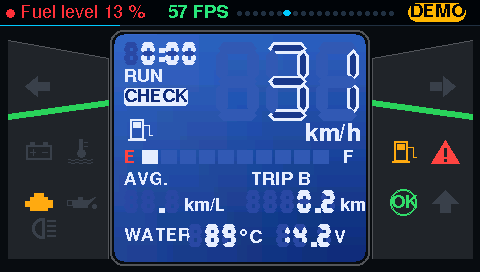
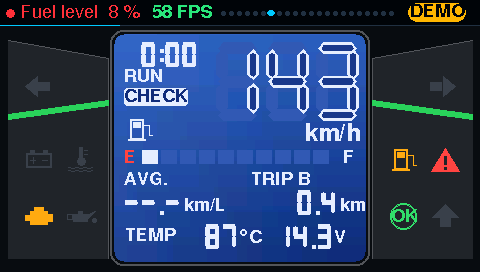
Polish SCOOTER and BLUE LCD pages after reviewing screenshots
Small 7-segment digits were unreadable (a "1" looked like ":"): thin strokes now
get blunt ends, a taller cell and a smaller gap, and ghost segments are drawn
before lit ones so they never cover them. BLUE LCD drops ghosts on small digits
(the real panel has none), renames WATER to TEMP so it clears its digits, drops
the lone headlight icon and spreads the pod lamps. Missing values show dashes.
Removed a stray orange stub on SCOOTER. Doc screenshots refreshed.

diff --git a/OBD_Dashboard/moto.h b/OBD_Dashboard/moto.h
@@ -74,30 +74,34 @@ struct Seg {
   float w, h, t;     // digit box and stroke
   float pitch, dotW; // advance per digit / per '.' or ':'
   float slant;       // px the top leans right
-  uint16_t on, off;  // lit / ghost colour
+  uint16_t on, off;  // lit / ghost colour (off = 0: unlit segments not drawn)
   bool hollow;       // lit segments drawn as outlines filled with `inner`
   uint16_t inner;
 };
 
+// Pointed ends (half the stroke) on big digits; thin strokes get short ends so a
+// small digit's segments stay bars instead of dots.
+static float tipOf(float t) { return t >= 8 ? t / 2 : t * 0.2f; }
+
 static void hseg(const Pen &p, float x0, float x1, float y, float t, uint16_t c) {
-  float h = t / 2;
-  if (x1 - x0 < t) return;
-  p.quad(x0 + h, y - h, x1 - h, y - h, x1 - h, y + h, x0 + h, y + h, c);
-  p.tri(x0, y, x0 + h, y - h, x0 + h, y + h, c);
-  p.tri(x1, y, x1 - h, y - h, x1 - h, y + h, c);
+  float h = t / 2, k = tipOf(t);
+  if (x1 - x0 < 2 * k + 1) return;
+  p.quad(x0 + k, y - h, x1 - k, y - h, x1 - k, y + h, x0 + k, y + h, c);
+  p.tri(x0, y, x0 + k, y - h, x0 + k, y + h, c);
+  p.tri(x1, y, x1 - k, y - h, x1 - k, y + h, c);
 }
 
 static void vseg(const Pen &p, float x, float y0, float y1, float t, uint16_t c) {
-  float h = t / 2;
-  if (y1 - y0 < t) return;
-  p.quad(x - h, y0 + h, x + h, y0 + h, x + h, y1 - h, x - h, y1 - h, c);
-  p.tri(x, y0, x - h, y0 + h, x + h, y0 + h, c);
-  p.tri(x, y1, x - h, y1 - h, x + h, y1 - h, c);
+  float h = t / 2, k = tipOf(t);
+  if (y1 - y0 < 2 * k + 1) return;
+  p.quad(x - h, y0 + k, x + h, y0 + k, x + h, y1 - k, x - h, y1 - k, c);
+  p.tri(x, y0, x - h, y0 + k, x + h, y0 + k, c);
+  p.tri(x, y1, x - h, y1 - k, x + h, y1 - k, c);
 }
 
 // One segment k (a..g = 0..6) of a digit at (x, y), shrunk by `in` px on every side.
 static void segment(const Pen &p, const Seg &s, float x, float y, int k, float in, uint16_t c) {
-  float g = max(1.0f, s.t * 0.15f) + in * 1.4f, t = s.t - 2 * in, h2 = s.t / 2, ym = y + s.h / 2;
+  float g = (s.t >= 8 ? max(1.0f, s.t * 0.15f) : 0.5f) + in * 1.4f, t = s.t - 2 * in, h2 = s.t / 2, ym = y + s.h / 2;
   switch (k) {
     case 0: hseg(p, x + g, x + s.w - g, y + h2, t, c); break;
     case 1: vseg(p, x + s.w - h2, y + h2 + g, ym - g, t, c); break;
@@ -112,10 +116,14 @@ static void segment(const Pen &p, const Seg &s, float x, float y, int k, float i
 static void digit(Pen p, const Seg &s, float x, float y, uint8_t bits) {
   p.shear = s.slant / s.h;
   p.baseY = y + s.h;
+  // ghosts first so they never cover the ends of lit segments
+  if (s.off)
+    for (int k = 0; k < 7; k++)
+      if (!(bits >> k & 1)) segment(p, s, x, y, k, 0, s.off);
   for (int k = 0; k < 7; k++) {
-    bool lit = bits >> k & 1;
-    segment(p, s, x, y, k, 0, lit ? s.on : s.off);
-    if (lit && s.hollow) segment(p, s, x, y, k, max(2.0f, s.t * 0.25f), s.inner);
+    if (!(bits >> k & 1)) continue;
+    segment(p, s, x, y, k, 0, s.on);
+    if (s.hollow) segment(p, s, x, y, k, max(2.0f, s.t * 0.25f), s.inner);
   }
 }
 
@@ -247,20 +255,20 @@ public:
     }
 
     char b[16];
-    if (isnan(in.speed)) strcpy(b, "   ");
+    if (isnan(in.speed)) strcpy(b, " --");
     else snprintf(b, sizeof b, "%3d", constrain((int)in.speed, 0, 999));
     value(0, b, SP_X - 4, SP_Y - 2, 190, 92, SPEED, SP_X, SP_Y);
-    if (isnan(in.coolant)) strcpy(b, "   ");
+    if (isnan(in.coolant)) strcpy(b, " --");
     else snprintf(b, sizeof b, "%3d", constrain((int)lroundf(in.coolant), -99, 999));
     Seg cs = SMALL;
     if (in.alarmCoolant) cs.on = RED_ON;
     value(1, b, 388, 100, 58, 30, cs, 388, 102);
-    if (isnan(in.battery)) strcpy(b, "  . ");
+    if (isnan(in.battery)) strcpy(b, "--.-");
     else snprintf(b, sizeof b, "%4.1f", constrain(in.battery, 0.0f, 99.9f));
     Seg bs = SMALL;
     if (in.alarmBattery) bs.on = RED_ON;
     value(2, b, 196, 188, 62, 28, bs, 200, 190);
-    if (isnan(in.tripKm)) strcpy(b, "    . ");
+    if (isnan(in.tripKm)) strcpy(b, "   -.-");
     else snprintf(b, sizeof b, "%6.1f", fmodf(in.tripKm, 10000));
     value(3, b, 286, 188, 98, 28, SMALL, 288, 190);
 
@@ -294,7 +302,7 @@ private:
   static constexpr float VX = 56, VB = 212, VT = 106, AX = 96, AY = 106, R = 40, TY = 66, TX = 452, BW = 18;
   static const int SP_X = 200, SP_Y = 84;
   static constexpr moto::Seg SPEED = {50, 88, 12, 60, 0, 10, YG, GHOST, false};
-  static constexpr moto::Seg SMALL = {13, 22, 4.5f, 17, 7, 3, CYAN_ON, GHOST_SMALL, false};
+  static constexpr moto::Seg SMALL = {13, 24, 3.5f, 17, 7, 3, CYAN_ON, GHOST_SMALL, false};
 
   LGFX &lcd;
   LGFX_Sprite bg;
@@ -411,9 +419,7 @@ private:
     p.unit("*C", 446, 118, &fonts::FreeSansBold9pt7b, CYAN_ON);
 
     // bottom line: orange step line, volts, trip A
-    bg.drawLine(176, 180 - Y0, 192, 182 - Y0, ORANGE_ON);
     bg.drawFastHLine(192, 182 - Y0, 270, ORANGE_ON);
-    bg.drawFastHLine(176, 181 - Y0, 2, ORANGE_ON);
     number(p, SMALL, "  . ", 200, 190);
     p.text("V", 258, 204, &fonts::FreeSansBold9pt7b, CYAN_ON, middle_left);
     number(p, SMALL, "    . ", 288, 190);
@@ -481,28 +487,28 @@ public:
     }
 
     char b[16];
-    if (isnan(in.speed)) strcpy(b, "   ");
+    if (isnan(in.speed)) strcpy(b, " --");
     else snprintf(b, sizeof b, "%3d", constrain((int)in.speed, 0, 999));
     value(0, b, 212, 38, 152, 86, SPEED, 216, 42);
-    if (isnan(in.runS)) strcpy(b, "  :  ");
+    if (isnan(in.runS)) strcpy(b, "--:--");
     else {
       uint32_t m = (uint32_t)in.runS / 60;
       snprintf(b, sizeof b, "%2u:%02u", (unsigned)(m / 60 % 100), (unsigned)(m % 60));
     }
     value(1, b, 122, 40, 84, 28, SMALL, 124, 42);
     float avg = avgKmL();
-    if (isnan(avg)) strcpy(b, "  . ");
+    if (isnan(avg)) strcpy(b, "--.-");
     else snprintf(b, sizeof b, "%4.1f", min(avg, 99.9f));
     value(2, b, 122, 188, 60, 28, SMALL, 124, 190);
-    if (isnan(in.tripKm)) strcpy(b, "    . ");
+    if (isnan(in.tripKm)) strcpy(b, "   -.-");
     else snprintf(b, sizeof b, "%6.1f", fmodf(in.tripKm, 10000));
     value(3, b, 244, 188, 92, 28, SMALL, 246, 190);
-    if (isnan(in.coolant)) strcpy(b, "   ");
+    if (isnan(in.coolant)) strcpy(b, " --");
     else snprintf(b, sizeof b, "%3d", constrain((int)lroundf(in.coolant), -99, 999));
     Seg cs = SMALL;
     if (in.alarmCoolant) cs.on = RED_ON;
     value(4, b, 186, 222, 56, 28, cs, 188, 224);
-    if (isnan(in.battery)) strcpy(b, "  . ");
+    if (isnan(in.battery)) strcpy(b, "--.-");
     else snprintf(b, sizeof b, "%4.1f", constrain(in.battery, 0.0f, 99.9f));
     Seg bs = SMALL;
     if (in.alarmBattery) bs.on = RED_ON;
@@ -525,12 +531,12 @@ private:
   static constexpr uint16_t BEZEL = rgb(14, 15, 18), POD = rgb(36, 38, 44), POD_EDGE = rgb(84, 86, 94);
   static constexpr uint16_t STRIP = rgb(40, 210, 90);
   static constexpr uint16_t LCD_TOP = rgb(50, 96, 196), LCD_BOTTOM = rgb(22, 46, 122), TINT = rgb(80, 130, 225);
-  static constexpr uint16_t GHOST = rgb(54, 90, 176), GHOST_SMALL = rgb(42, 74, 160), ON = rgb(228, 236, 252);
+  static constexpr uint16_t GHOST = rgb(54, 90, 176), ON = rgb(228, 236, 252);
   static constexpr uint16_t HOLLOW = rgb(30, 58, 140);
   static constexpr uint16_t RED_ON = rgb(255, 70, 70), AMBER_ON = rgb(255, 170, 20), GREEN_ON = rgb(50, 220, 110);
   static constexpr uint16_t BLUE_ON = rgb(60, 130, 255), LAMP_OFF = rgb(62, 64, 72);
   static constexpr moto::Seg SPEED = {42, 78, 11, 50, 0, 0, ON, GHOST, true, HOLLOW};
-  static constexpr moto::Seg SMALL = {13, 22, 4.5f, 17, 7, 0, ON, GHOST_SMALL, false};
+  static constexpr moto::Seg SMALL = {13, 24, 3.5f, 17, 7, 0, ON, 0, false};
   static const int LX0 = 114, LY0 = 34, LW = 252, LH = 228;
 
   LGFX &lcd;
@@ -558,7 +564,7 @@ private:
   // 6 OBD link, 7 shift (right pod); 8 = CHECK tag on the panel.
   static void lampAt(int id, int &x, int &y) {
     static const int PX[8] = {24, 66, 24, 66, 388, 430, 388, 430};
-    static const int PY[8] = {140, 140, 190, 190, 140, 140, 190, 190};
+    static const int PY[8] = {148, 148, 204, 204, 148, 148, 204, 204};
     if (id < 8) { x = PX[id]; y = PY[id]; }
     else { x = 124; y = 88; }
   }
@@ -645,7 +651,7 @@ private:
     p.text("TRIP B", 250, 180, &fonts::FreeSansBold9pt7b, ON, middle_left);
     number(p, SMALL, "    . ", 246, 190);
     p.text("km", 340, 206, &fonts::FreeSansBold9pt7b, ON, middle_left);
-    p.text("WATER", 124, 236, &fonts::FreeSansBold9pt7b, ON, middle_left);
+    p.text("TEMP", 124, 236, &fonts::FreeSansBold9pt7b, ON, middle_left);
     number(p, SMALL, "   ", 188, 224);
     p.unit("*C", 240, 238, &fonts::FreeSansBold9pt7b, ON);
     number(p, SMALL, "  . ", 276, 224);
@@ -655,9 +661,5 @@ private:
       lampAt(id, x, y);
       drawLamp(p, id, 0, x, y);
     }
-    // headlight lamp ghost on the left pod (no OBD signal for it)
-    bg.fillArc(42, 228 - Y0, 8, 10, 90, 270, LAMP_OFF);
-    bg.fillRect(42, 218 - Y0, 3, 21, LAMP_OFF);
-    for (int k = 0; k < 4; k++) bg.fillRect(47, 220 + k * 5 - Y0, 9, 2, LAMP_OFF);
   }
 };
